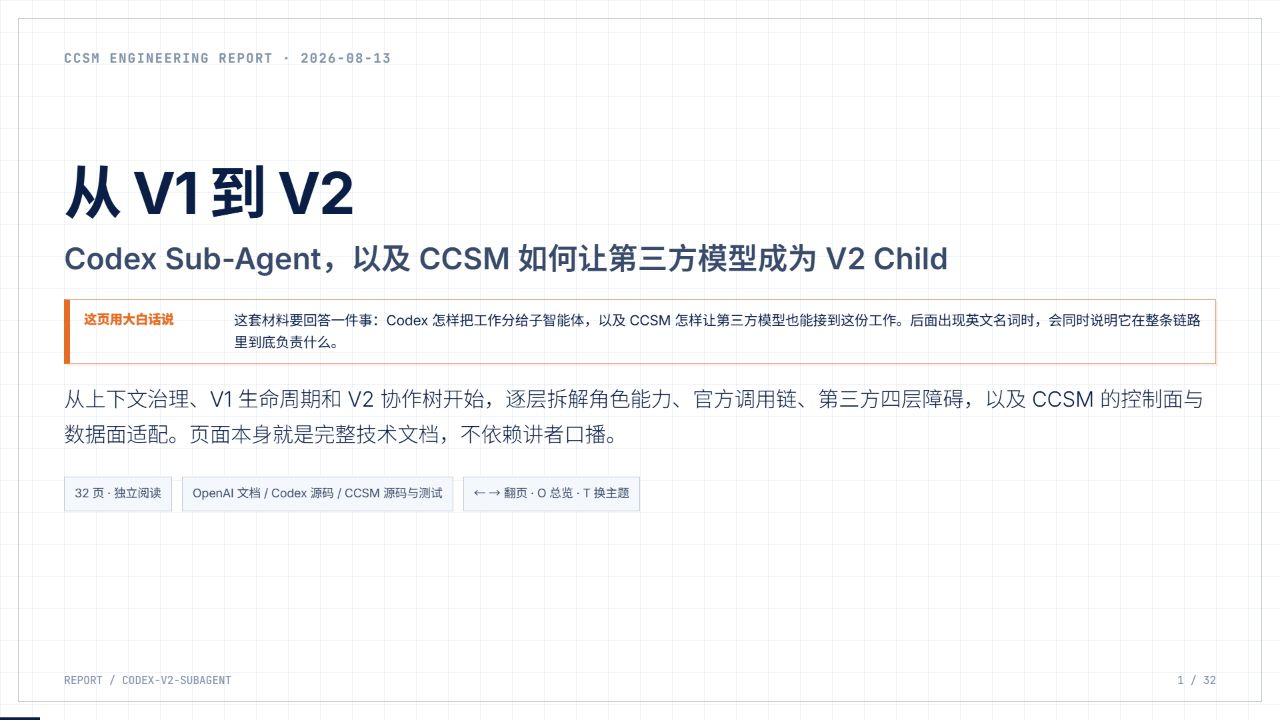
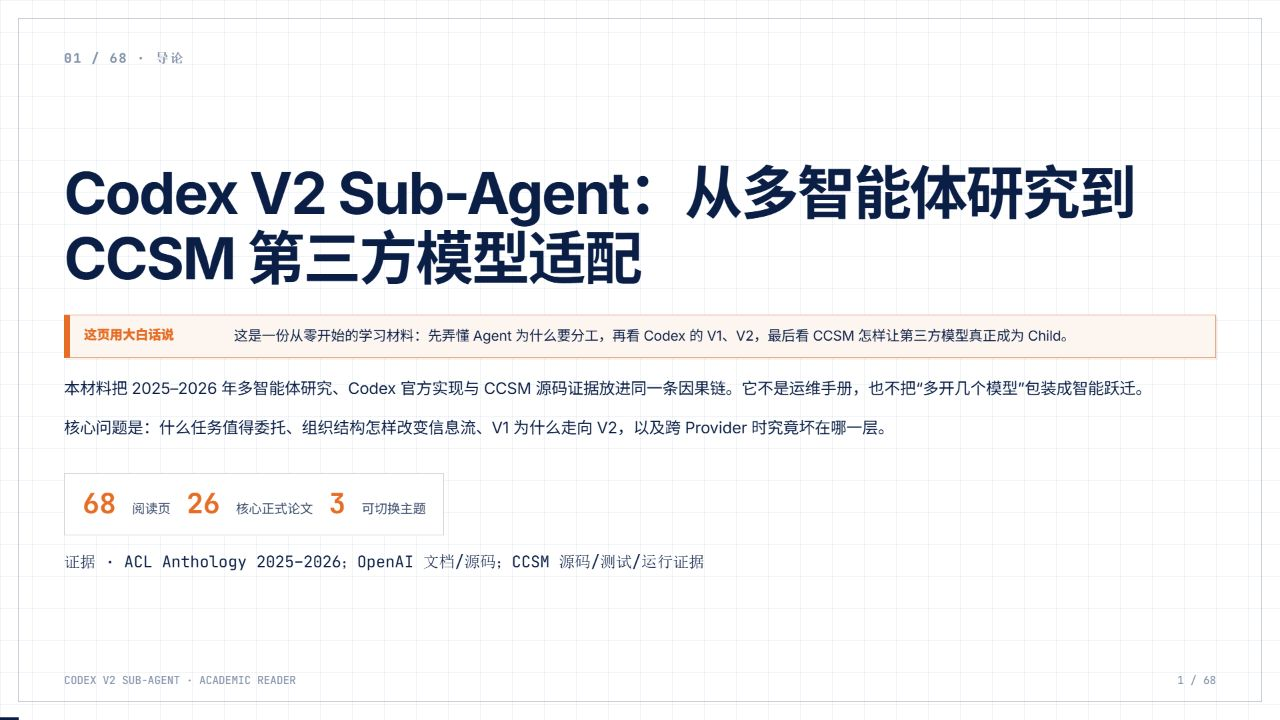
docs(codex): 完成学术课件视觉验收与知识沉淀
保存11张本轮关键页截图和真实浏览器验收报告。验收覆盖68个稳定页面、68条主deck大白话、1280x720与900x650、engineering-whiteprint/academic-paper/tokyo-night三主题、单活动页、零横向溢出、不透明内容表面、论文弹窗、Esc、68页总览和零console error/warning。项目memory记录26篇论文数据源、正反研究结论、术语与Codex/CCSM证据边界、完整复现命令；用户原有未跟踪PNG保持不动。

本次提交由BigStrongsSun完成

diff --git a/memory.md b/memory.md
@@ -1,5 +1,16 @@
 # CC Switch Repository Memory
 
+## 2026-08-13 Codex V2 Sub-Agent 68页学术专著课件与论文证据库
+
+- 当前权威材料已经从 32 页工程说明重构为 68 页中文阅读型学术课件：`docs/presentations/codex-v2-subagent-report/index.html`。叙事顺序固定为 Agent 基础 → 单 Agent 的结构性瓶颈 → Sub-Agent 正式定义 → 与 Multi-Agent 的包含关系 → 组织拓扑 → 能力与系统评价 → Codex V1 → V1→V2 → Codex V2 → 第三方四层障碍 → CCSM 控制面/数据面 → 总结。每页都有稳定 `data-slide-id` 和唯一“这页用大白话说”；V1/V2 在机制细节前都有概括，转换原因单独成章。
+- 论文结构化唯一数据源为 `docs/references/subagent-multiagent-2025-2026-papers.json`。核心集是 26 篇 ACL Anthology 正式论文：2026 年 16 篇、2025 年 10 篇；26 份官方 PDF 全部归档在 `docs/references/papers/subagent-multiagent-2025-2026/`，清单记录字节数和 SHA-256。逐篇研究问题、方法、实验范围、支持结论、不可外推边界与材料映射见 `subagent-multiagent-2025-2026-annotated-bibliography.md`。
+- 两条联网检索链必须如实区分：Codex 内置 Web Search 能稳定召回 ACL/arXiv/官方资料；Matrix WebSearch 本轮对 2026 ACL multi-agent 查询主要返回日历等无关页面，学术召回不足，不能作为正证据。最终元数据逐篇回到 ACL 原始论文页、DOI 和官方 PDF 核对。
+- 研究主结论是条件判断，而不是“Agent 越多越好”：只有任务可委托、可隔离、可验收，并行/能力互补/上下文治理收益大于通信、整合与错误传播成本时，Sub-Agent 才有系统价值。正向证据包括 ExtAgents、MOSA 和专业化流水线；反例必须保留 SILO-BENCH 的 communication-reasoning gap、同质 debate、AgentSlimming 的冗余节点、Diversity Collapse 和 superficial success/internal breakdown。
+- 术语边界：Sub-Agent 是层级式 Multi-Agent 的子集；“Sub”来自目标、授权、责任、范围和生命周期的从属关系，不来自模型大小、价格或厂商。Tool call 没有独立目标与生命周期；parallel sampling/ensemble 不天然形成协作。Agent 评级使用任务分解、角色匹配、工具、状态、通信、验证、终止恢复、成本鲁棒性、安全权限九维向量，评价对象包含 model、harness、topology、orchestration 和 environment。
+- Codex/CCSM 表述边界保持不变：V1/V2 是当前材料的工程分期，不是学术统一标准；`description` 是语义 guidance，不是确定性硬路由；`task_name` 不替代 `agent_type`；CCSM 不重写 orchestrator、不解密 OpenAI ciphertext；Official→Official 保留原生语义；只有真实第三方 Provider 物化后才做消息投影；opaque ciphertext fail closed；TOML/构建存在不能替代真实 Child rollout、Provider 和 HTTP 证据。
+- 可重复验收：`node scripts/validate-subagent-academic-materials.mjs --papers docs/references/subagent-multiagent-2025-2026-papers.json --citations docs/codex-v2-subagent-third-party-adaptation-zh.md docs/presentations/codex-v2-subagent-report/index.html`；`node docs/presentations/codex-v2-subagent-report/content.test.mjs`；`node docs/presentations/codex-v2-subagent-report/style.test.mjs`；`node docs/presentations/codex-v2-subagent-report/browser.test.mjs artifacts/codex-v2-subagent-report/browser-audit.json`。真实浏览器报告覆盖 1280×720、900×650、三主题、仅一页 active、无横向溢出、不透明内容表面、论文弹窗、Esc、68 页总览和零 console error/warning。
+- 视觉证据位于 `artifacts/codex-v2-subagent-report/`，关键页截图导航后等待至少 1000ms。用户已有的未跟踪文件 `artifacts/design-audit/subagent-theme-2026-08-11/05-light-after.png` 仍属于无关用户文件，不得纳入提交。
+
 ## 2026-08-12 Sub-Agent 双主题工作台 3.19.1-22 发布准备
 
 - `3.19.1-22` 将 Sub-Agent 配置收敛为 MultiRouter 独立顶层工作区，并完成深浅双主题语义色：V1/V2 状态、选择策略、目录同步、模型折叠卡片、能力问卷、高级覆盖、TOML 预览和 sticky 保存栏都复用 MultiRouter 的蓝/青/绿/紫/红/琥珀层级。最终设计证据位于 `design-qa.md` 与 `artifacts/design-audit/subagent-theme-2026-08-11/{05-light-after,06-light-toml-after,07-dark-after,08-dark-toml-after}.jpg`，结论为 `final result: passed`；误生成的 15x15 `05-light-after.png` 只是光标图层，不得提交或作为验收证据。
